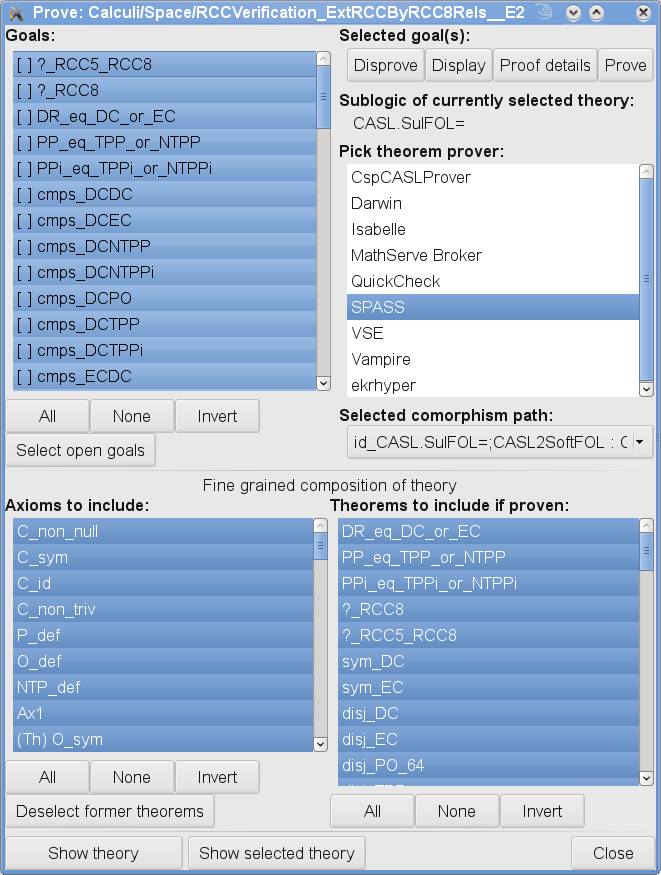
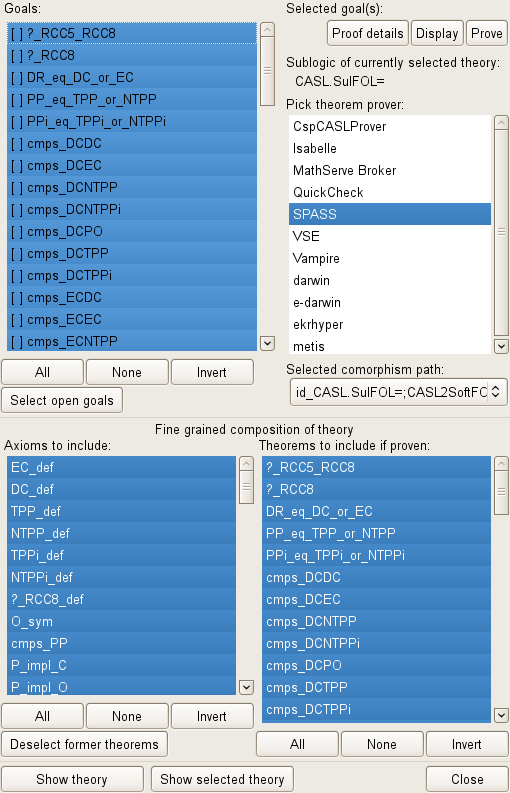
updated proof management gui git-svn-id: https://svn-agbkb.informatik.uni-bremen.de/Hets/trunk@14957 cec4b9c1-7d33-0410-9eda-942365e851bb

diff --git a/doc/UserGuide.tex b/doc/UserGuide.tex
@@ -1141,7 +1141,7 @@ current selection.
   \cite{Habil,MossakowskiEtAl05,MossakowskiEtAl07b}. While support for
   local and global (definition or theorem) links is stable, support
   for hiding links and checking conservativity is still experimental.
-  In most cases, it is advisable to use ``Automatic'', which
+  In most cases, it is advisable to use ``Auto-DG-Prover'', which
   automatically applies the rules in the correct order. As a result,
   the open theorem links (marked in red) will be reduced to local
   proof goals, that is, they become green, and instead, some target nodes
